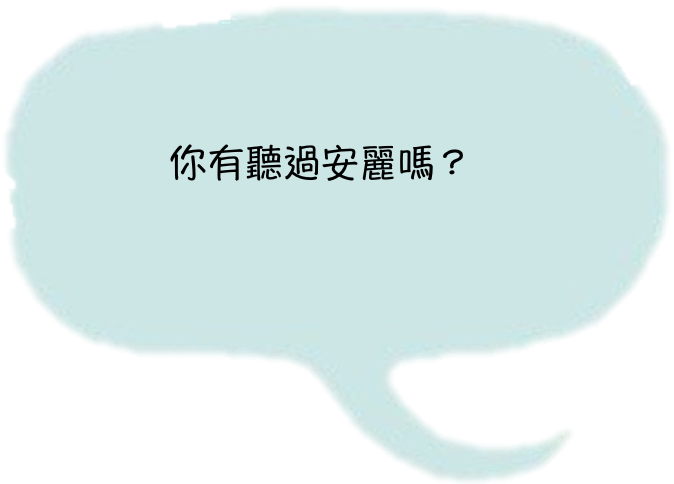
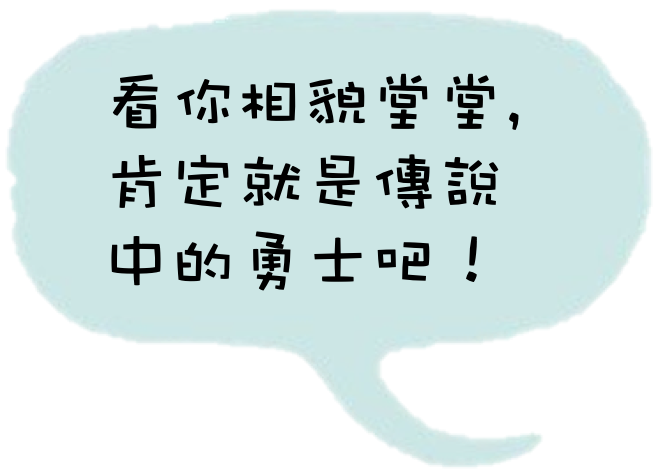
場景文字

diff --git a/HarshStoneCloud/src/scene/MainScene.java b/HarshStoneCloud/src/scene/MainScene.java
@@ -186,9 +186,8 @@ public class MainScene extends Scene {
         }
         
         if(Global.CURRENTSTAGE >= 1){
-            orc = new Monster(Global.MONSTERX, Global.MONSTERY, Global.MONSTERWIDTH, Global.MONSTERHEIGHT, 
-                    "獸人1", 14, 1, 13, (int) (Math.random() * 8), true); // 創建第一隻怪物 // 最後兩個參數為腳色變換跟技能光影挑選
-            System.out.println("orc:" + orc.getIsBoss() + orc.getActNumber());
+            orc = new Monster(Global.BOSSX, Global.BOSSY, Global.BOSSWIDTH, Global.BOSSHEIGHT, 
+                    "獸人1", 70, 4, 13, (int) (Math.random() * 8), true); // 創建第一隻怪物 // 最後兩個參數為腳色變換跟技能光影挑選
             monsters.add(orc);
         }
         

diff --git a/HarshStoneCloud/src/scene/SelectJobScene.java b/HarshStoneCloud/src/scene/SelectJobScene.java
@@ -115,8 +115,8 @@ public class SelectJobScene extends Scene {
         DARKEN4 = irc.tryGetImage("/resources/Incidence/DARKEN4.png");
         
         talkchart1 = irc.tryGetImage("/resources/Incidence/TALK1.png");
-        talkchart2 = irc.tryGetImage("/resources/Incidence/TALK2.png");
-        talkchart3 = irc.tryGetImage("/resources/Incidence/TALK3.png");
+        talkchart2 = irc.tryGetImage("/resources/Incidence/TALKL.png");
+        talkchart3 = irc.tryGetImage("/resources/Incidence/TALK4.png");
         
         img = irc.tryGetImage("/resources/Map/mapOrigin.png");
         mousecommandlistener = new CommandSolver.MouseCommandListener() {

diff --git a/HarshStoneCloud/src/utils/Global.java b/HarshStoneCloud/src/utils/Global.java
@@ -179,4 +179,14 @@ public class Global {
      //卡片放大後長寬
      public static final int INSPECTCARDWIDTH = (int)(INSPECTSIZE*CARDWIDTH);
      public static final int INSPECTCARDHEIGHT =(int)(INSPECTSIZE*CARDHEIGHT);
+     
+     
+    //Boss位置參數
+     public static final float BOSSRATE = 1.3f;
+     public static final int BOSSX = 1400;
+     public static final int BOSSY = 100;
+     public static final int BOSSWIDTH = (int)(MONSTERWIDTH*BOSSRATE);
+     public static final int BOSSHEIGHT = (int)(MONSTERHEIGHT*BOSSRATE);
+     
+     
 }
